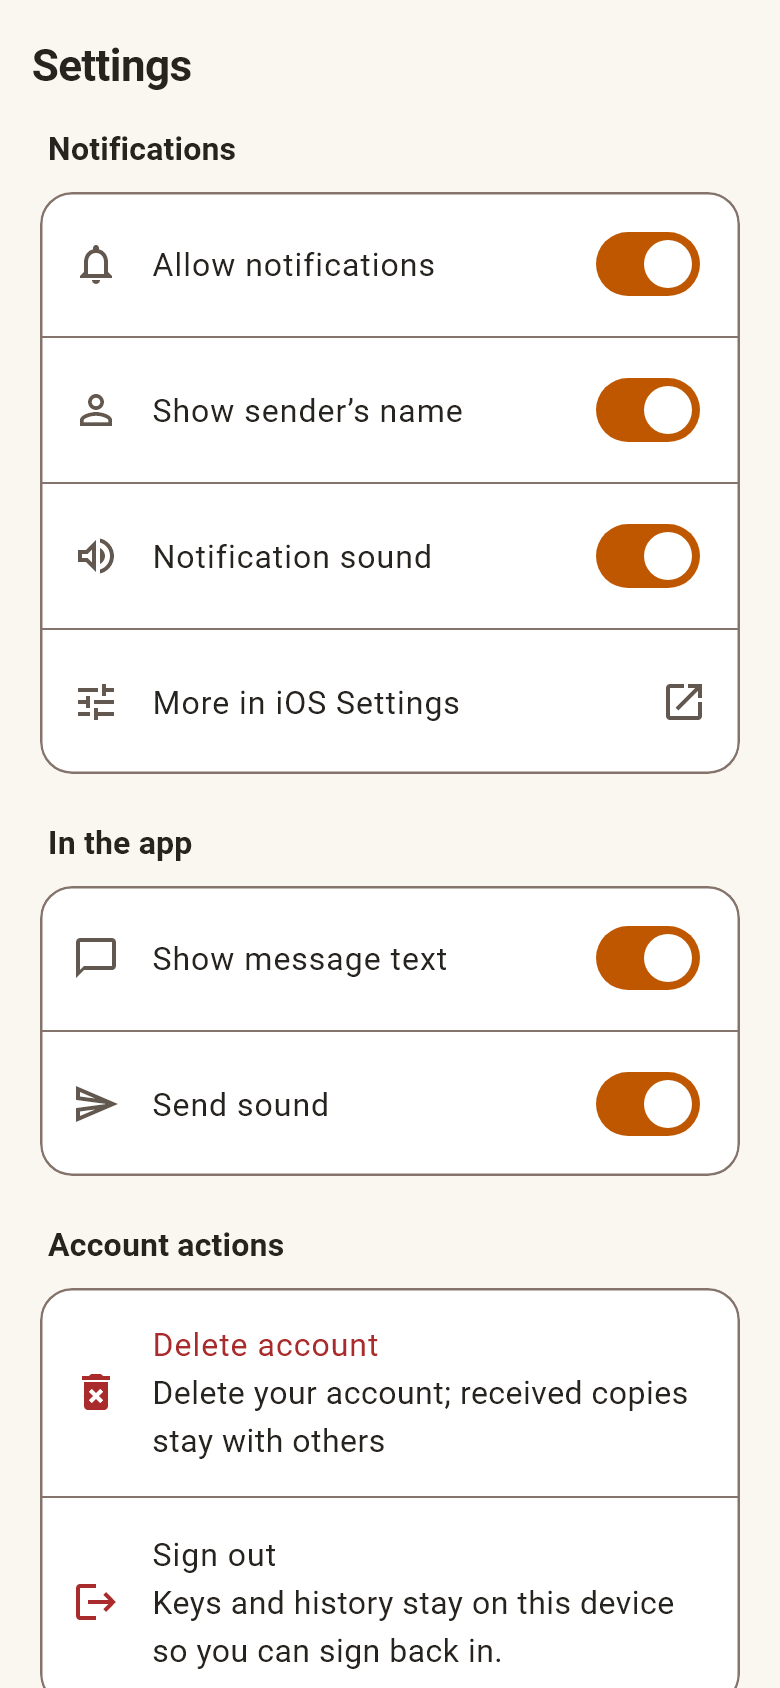
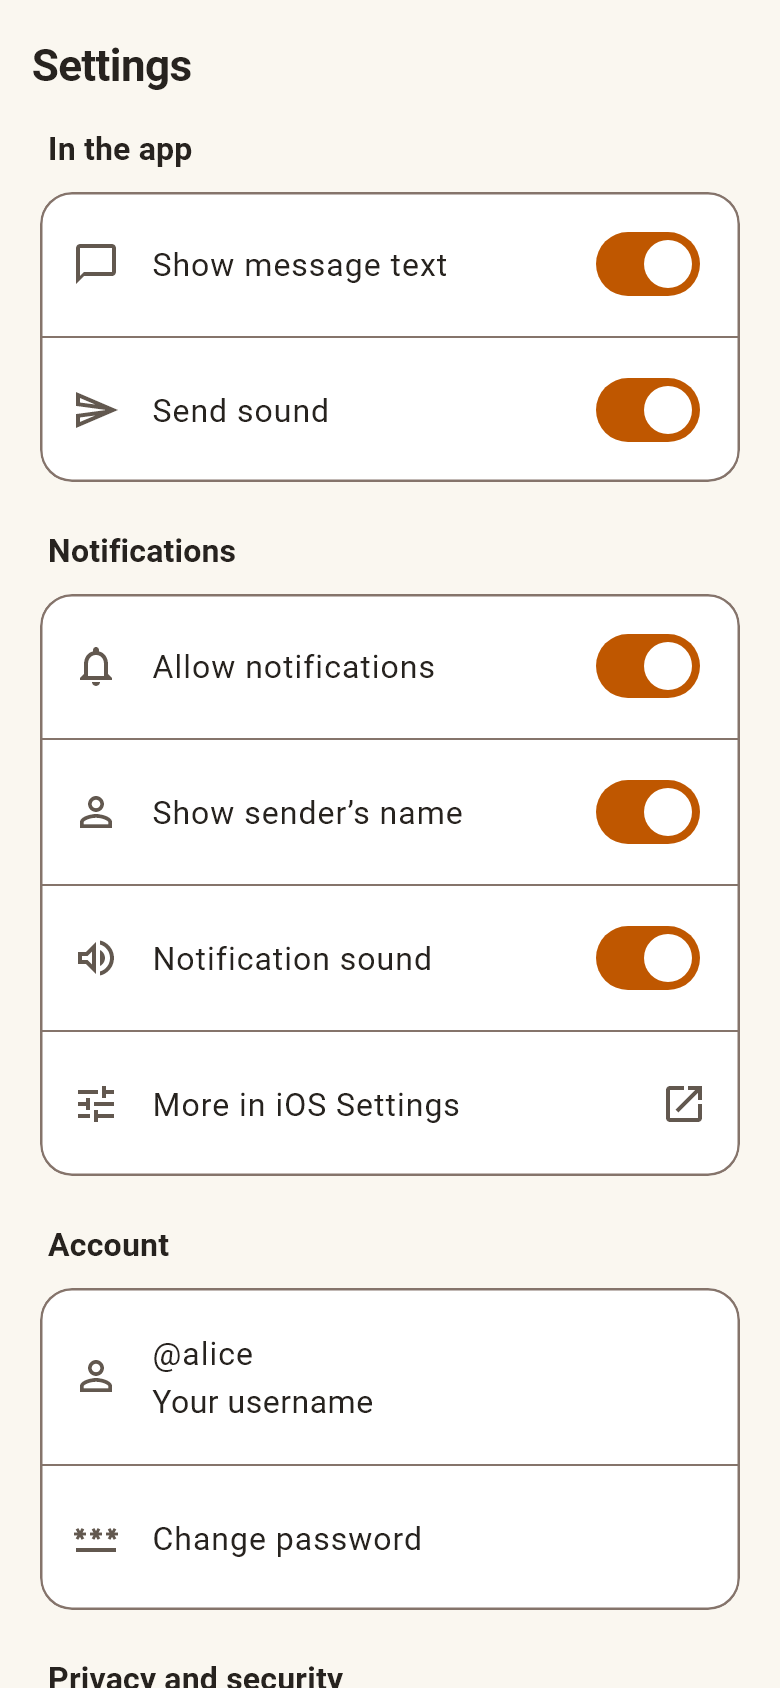
Reorder settings: Appearance, In the app, Notifications, Account, ...
The owner's order: Appearance, In the app, Notifications, Account,
Privacy and security, Devices and recovery, Account actions. About moves
to the end, below Account actions. The licences test now scrolls to the
row, which is built lazily at the bottom; the notifications render shows
In the app and Notifications together.

AI assistance: Claude Code wrote this change.

diff --git a/lib/src/view/settings/settings_screen.dart b/lib/src/view/settings/settings_screen.dart
@@ -155,34 +155,38 @@ class _SettingsScreenState extends ConsumerState<SettingsScreen> {
                   ],
                 ),
                 UiSettingsSection(
-                  title: 'About',
+                  title: 'In the app',
                   children: [
-                    ListTile(
-                      key: const Key('legalLinks'),
-                      leading: const Icon(Icons.policy_outlined),
-                      title: const Text('Privacy and terms'),
-                      subtitle: const Text(
-                        'Read the privacy policy and terms of use',
-                      ),
-                      trailing: const Icon(Icons.chevron_right),
-                      onTap: _busy
+                    SwitchListTile(
+                      key: const Key('notificationPreviews'),
+                      secondary: const Icon(Icons.chat_bubble_outline),
+                      title: const Text('Show message text'),
+                      value: ref.watch(chatActivityProvider).previewText,
+                      onChanged: _busy || !activity.preferencesAvailable
                           ? null
-                          : () => _open(const LegalLinksScreen()),
+                          : (value) => _run(
+                              () => ref
+                                  .read(chatActivityProvider.notifier)
+                                  .previews(value),
+                            ),
                     ),
-                    ListTile(
-                      key: const Key('openLicences'),
-                      leading: const Icon(Icons.description_outlined),
-                      title: const Text('Open-source licences'),
-                      trailing: const Icon(Icons.chevron_right),
-                      onTap: _busy
+                    SwitchListTile(
+                      key: const Key('sendSound'),
+                      secondary: const Icon(Icons.send_outlined),
+                      title: const Text('Send sound'),
+                      value: ref.watch(sendSoundProvider).value ?? true,
+                      onChanged: _busy
                           ? null
-                          : () => showLicensePage(
-                              context: context,
-                              applicationName: 'fireplace.',
+                          : (value) => _run(
+                              () => ref
+                                  .read(sendSoundProvider.notifier)
+                                  .setOn(value),
                             ),
                     ),
                   ],
                 ),
+                if (pushEnabled && s.pushNotifications != null)
+                  PushSettingsSection(service: s.pushNotifications!),
                 UiSettingsSection(
                   title: 'Account',
                   children: [
@@ -269,39 +273,6 @@ class _SettingsScreenState extends ConsumerState<SettingsScreen> {
                     ),
                   ],
                 ),
-                if (pushEnabled && s.pushNotifications != null)
-                  PushSettingsSection(service: s.pushNotifications!),
-                UiSettingsSection(
-                  title: 'In the app',
-                  children: [
-                    SwitchListTile(
-                      key: const Key('notificationPreviews'),
-                      secondary: const Icon(Icons.chat_bubble_outline),
-                      title: const Text('Show message text'),
-                      value: ref.watch(chatActivityProvider).previewText,
-                      onChanged: _busy || !activity.preferencesAvailable
-                          ? null
-                          : (value) => _run(
-                              () => ref
-                                  .read(chatActivityProvider.notifier)
-                                  .previews(value),
-                            ),
-                    ),
-                    SwitchListTile(
-                      key: const Key('sendSound'),
-                      secondary: const Icon(Icons.send_outlined),
-                      title: const Text('Send sound'),
-                      value: ref.watch(sendSoundProvider).value ?? true,
-                      onChanged: _busy
-                          ? null
-                          : (value) => _run(
-                              () => ref
-                                  .read(sendSoundProvider.notifier)
-                                  .setOn(value),
-                            ),
-                    ),
-                  ],
-                ),
                 UiSettingsSection(
                   title: 'Account actions',
                   children: [
@@ -343,6 +314,35 @@ class _SettingsScreenState extends ConsumerState<SettingsScreen> {
                                     .popUntil((r) => r.isFirst);
                               }
                             }),
+                    ),
+                  ],
+                ),
+                UiSettingsSection(
+                  title: 'About',
+                  children: [
+                    ListTile(
+                      key: const Key('legalLinks'),
+                      leading: const Icon(Icons.policy_outlined),
+                      title: const Text('Privacy and terms'),
+                      subtitle: const Text(
+                        'Read the privacy policy and terms of use',
+                      ),
+                      trailing: const Icon(Icons.chevron_right),
+                      onTap: _busy
+                          ? null
+                          : () => _open(const LegalLinksScreen()),
+                    ),
+                    ListTile(
+                      key: const Key('openLicences'),
+                      leading: const Icon(Icons.description_outlined),
+                      title: const Text('Open-source licences'),
+                      trailing: const Icon(Icons.chevron_right),
+                      onTap: _busy
+                          ? null
+                          : () => showLicensePage(
+                              context: context,
+                              applicationName: 'fireplace.',
+                            ),
                     ),
                   ],
                 ),

diff --git a/test/view/settings/licences_test.dart b/test/view/settings/licences_test.dart
@@ -30,7 +30,12 @@ void main() {
       ),
     );
     await settleUi(tester);
-    await tester.ensureVisible(find.byKey(const Key('openLicences')));
+    // About is the last section; the list builds rows as they scroll in.
+    await tester.scrollUntilVisible(
+      find.byKey(const Key('openLicences')),
+      300,
+      scrollable: find.byType(Scrollable).first,
+    );
     await tester.pumpAndSettle();
     await tester.tap(find.byKey(const Key('openLicences')));
     await tester.pumpAndSettle();

diff --git a/scripts/render/render_screens_test.dart b/scripts/render/render_screens_test.dart
@@ -644,8 +644,8 @@ void main() {
           200,
           scrollable: find.byType(Scrollable).first,
         );
-        // Section heading and its three rows at the top of the screen.
-        await t.ensureVisible(find.text('Notifications'));
+        // "In the app" and Notifications, one after the other, at the top.
+        await t.ensureVisible(find.text('In the app'));
         await t.pumpAndSettle();
       },
     ),
